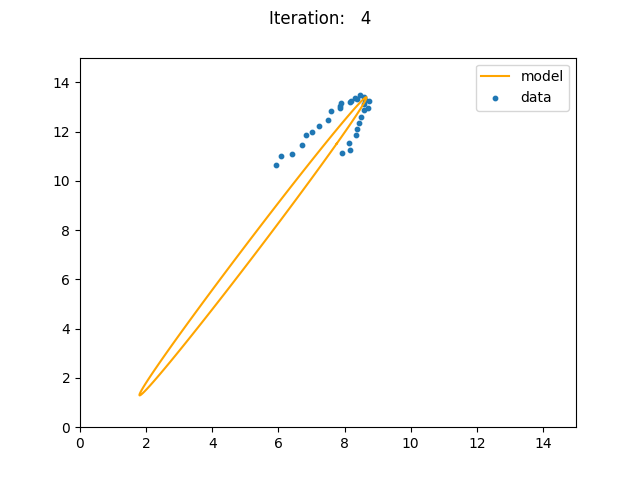
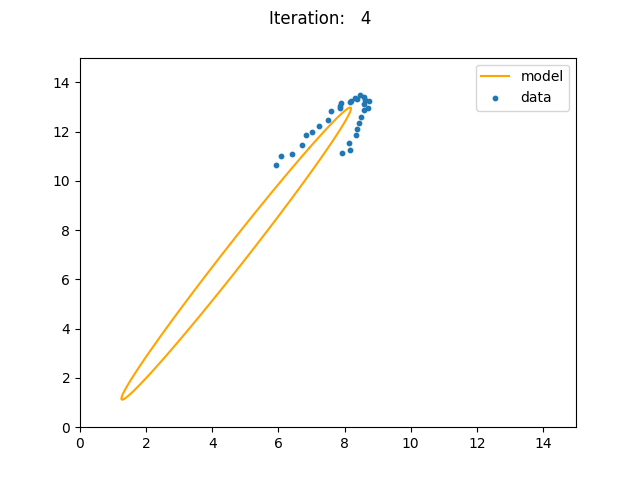
correct objective

Changed region(s): [[0.1875, 0.2188, 0.5625, 0.8438], [0.5625, 0.1875, 0.5938, 0.2188]]

diff --git a/minimize.py b/minimize.py
@@ -25,10 +25,15 @@ class Minimizer:
 
     def objective(self, theta, parameters):
         points_on_model = self.model.evaluate(parameters)
-        distance = tf.norm(self.data.samples - points_on_model, axis=0)
-        # Note: norm works better than square
 
-        return tf.reduce_sum(distance)
+        # WEIRD! in below block norm axis is wrong, still works better!
+        # distance = tf.norm(self.data.samples - points_on_model, axis=0)
+        # return tf.reduce_sum(distance)
+
+        distance = tf.reduce_sum(
+            tf.norm(self.data.samples - points_on_model, axis=1)**2
+        )
+        return distance
 
     def minimize_tf_lm(self, flag_callback=False, n_iters=20):
         import tensorflow_graphics as tfg  # used here since import is slow
